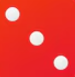
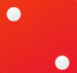
Added dice corner radius and changed size

Changed region(s): [[0.6933, 0.7123, 0.9333, 0.9589], [0.3733, 0.3836, 0.6133, 0.6027], [0.0533, 0.0822, 0.2933, 0.3014]]

diff --git a/client/src/routes/Tile.svelte b/client/src/routes/Tile.svelte
@@ -4,7 +4,7 @@
   export let num = 0
   export let color = ''
 
-  let used = false
+  let used = true
   let w = 300
   let h = 300
 
@@ -43,7 +43,17 @@
         <img id="card" src="/images/{color}.png" alt="" style="height: {h*0.85}px; width:{w*0.85}px;" >
         <span style="font-size: {h*0.2}px;">{num}x</span>
       {:else}
-        <img id="dice" src="/images/{num}.png" alt="">
+        {#if num === 1}
+        <div id="dice-wrapper">
+          <img id="dice" src="/images/{num}.png" alt="">
+          <img id="dice" src="/images/{num+1}.png" alt="">
+        </div>
+        {:else}
+          <div id="dice-wrapper">
+            <img id="dice" src="/images/{num+1}.png" alt="">
+          </div>
+        {/if}
+
       {/if}
     </div>
   {/if}
@@ -90,11 +100,19 @@
     display: inline-block;
   }
 
-  #dice {
-    height: 50px;
+  #dice-wrapper {
+    height: 60px;
     position: absolute;
     margin-top: 50%;
     margin-left: 50%;
     transform: translate(-50%, -50%);
+    border-radius: 0.5rem;
+    display: flex;
+    justify-content: space-evenly;
+    width: 100%;
+  }
+
+  #dice-wrapper > img {
+    border-radius: .5rem;
   }
 </style>
